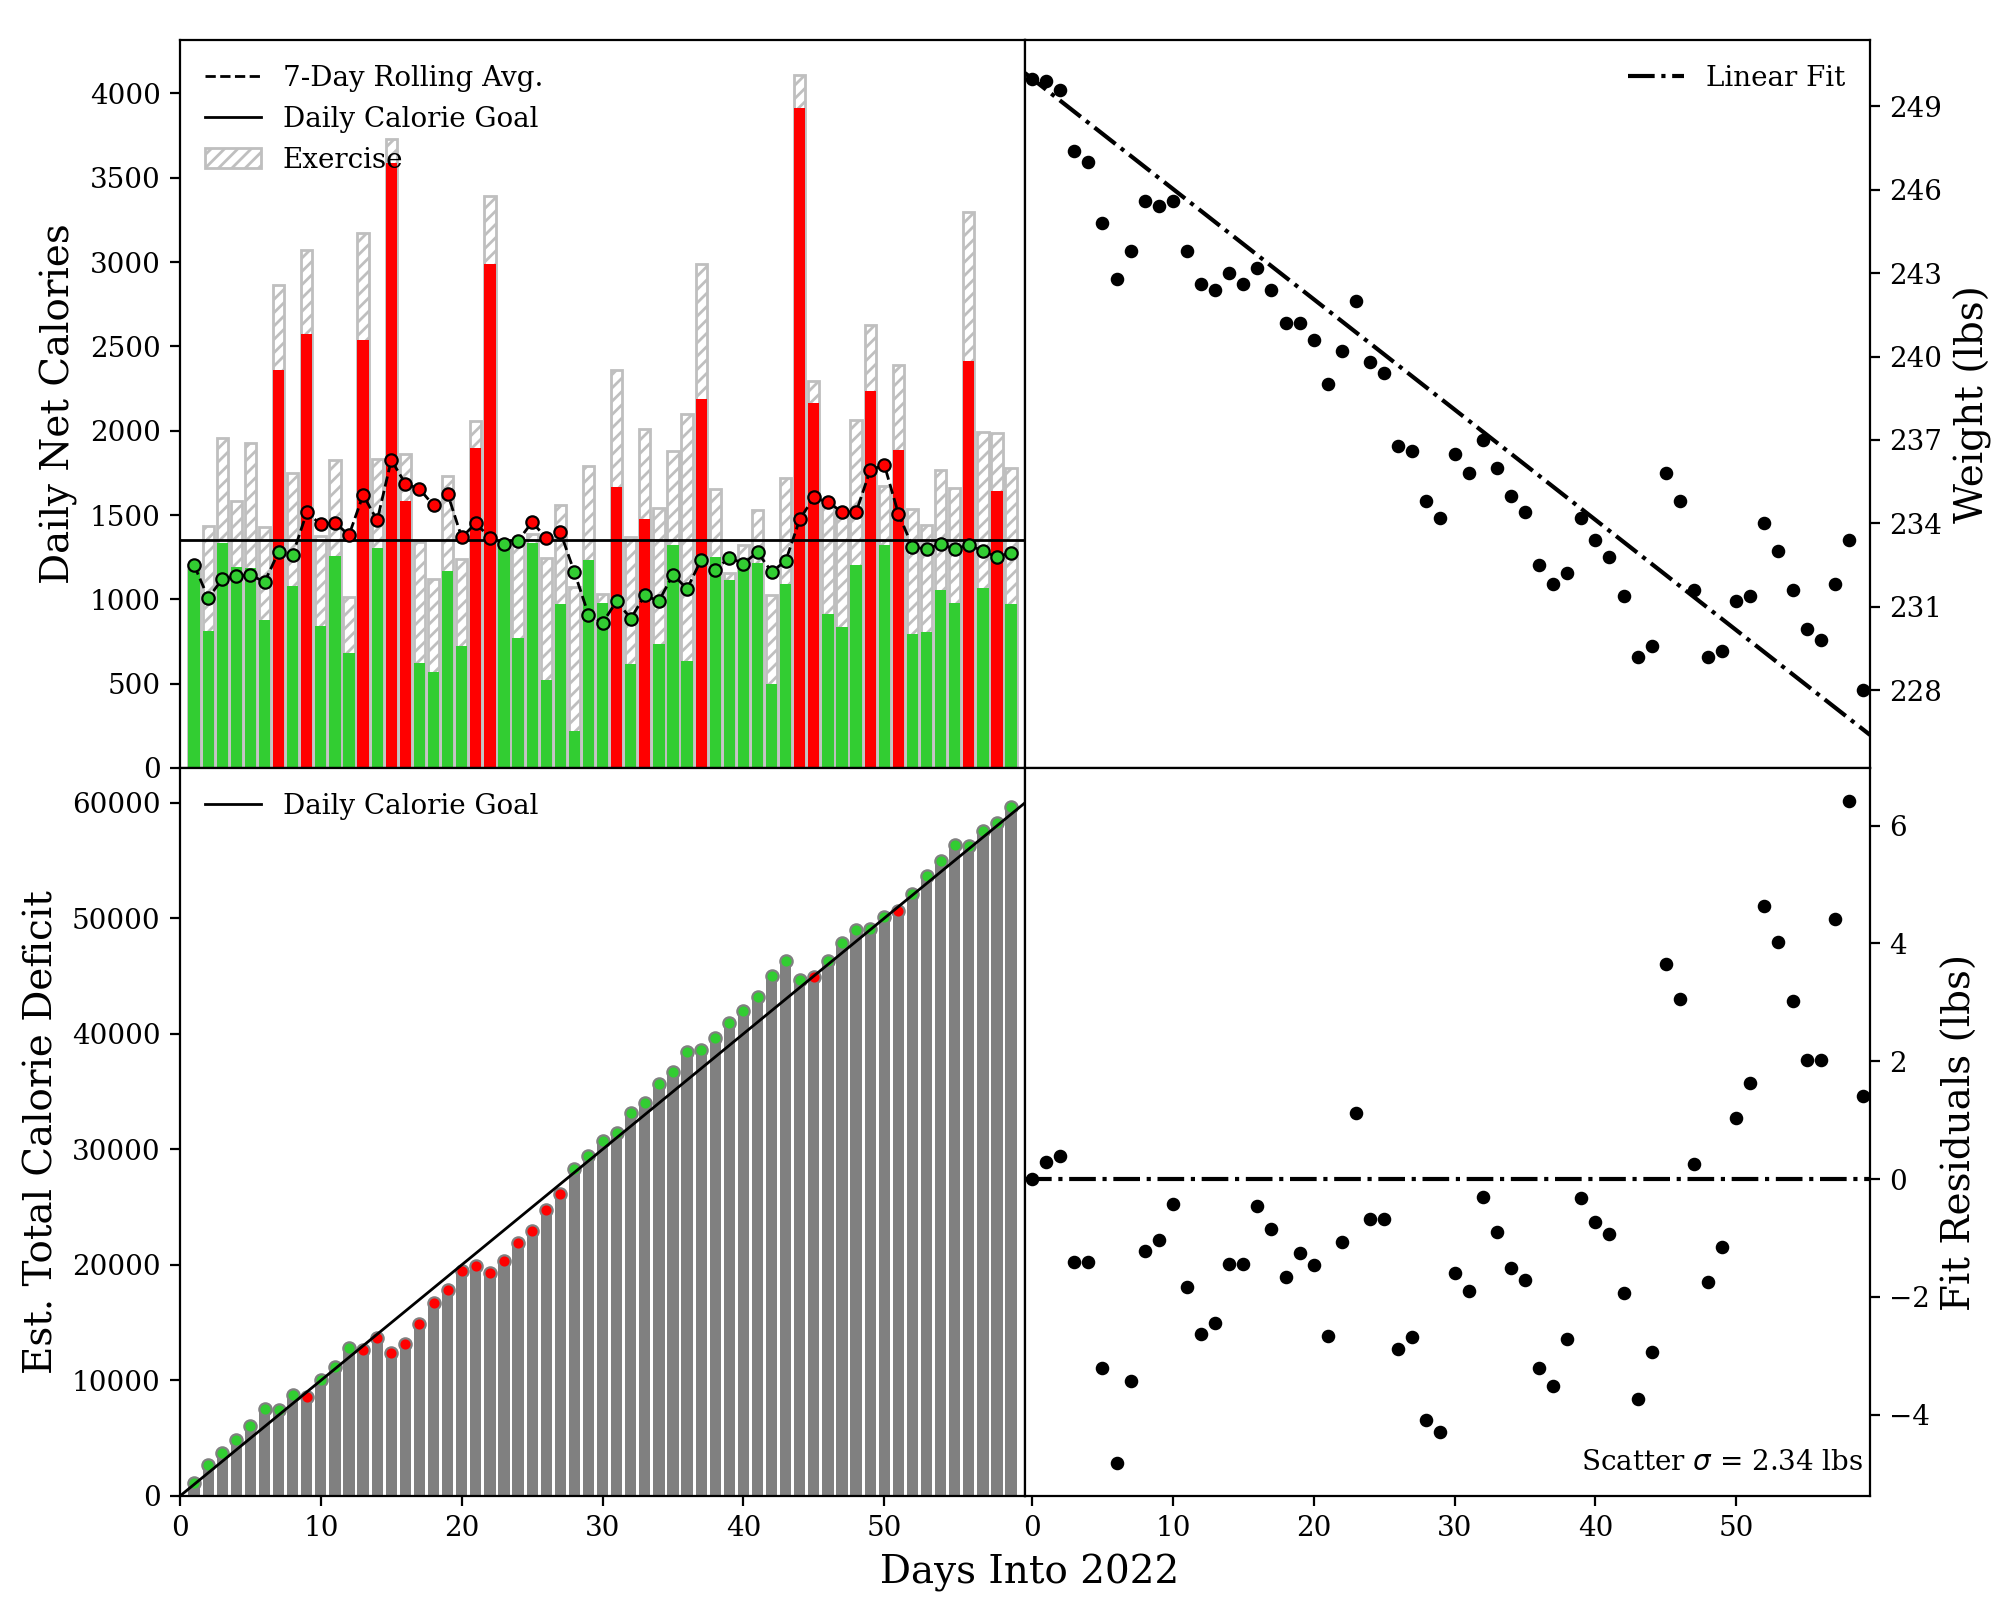
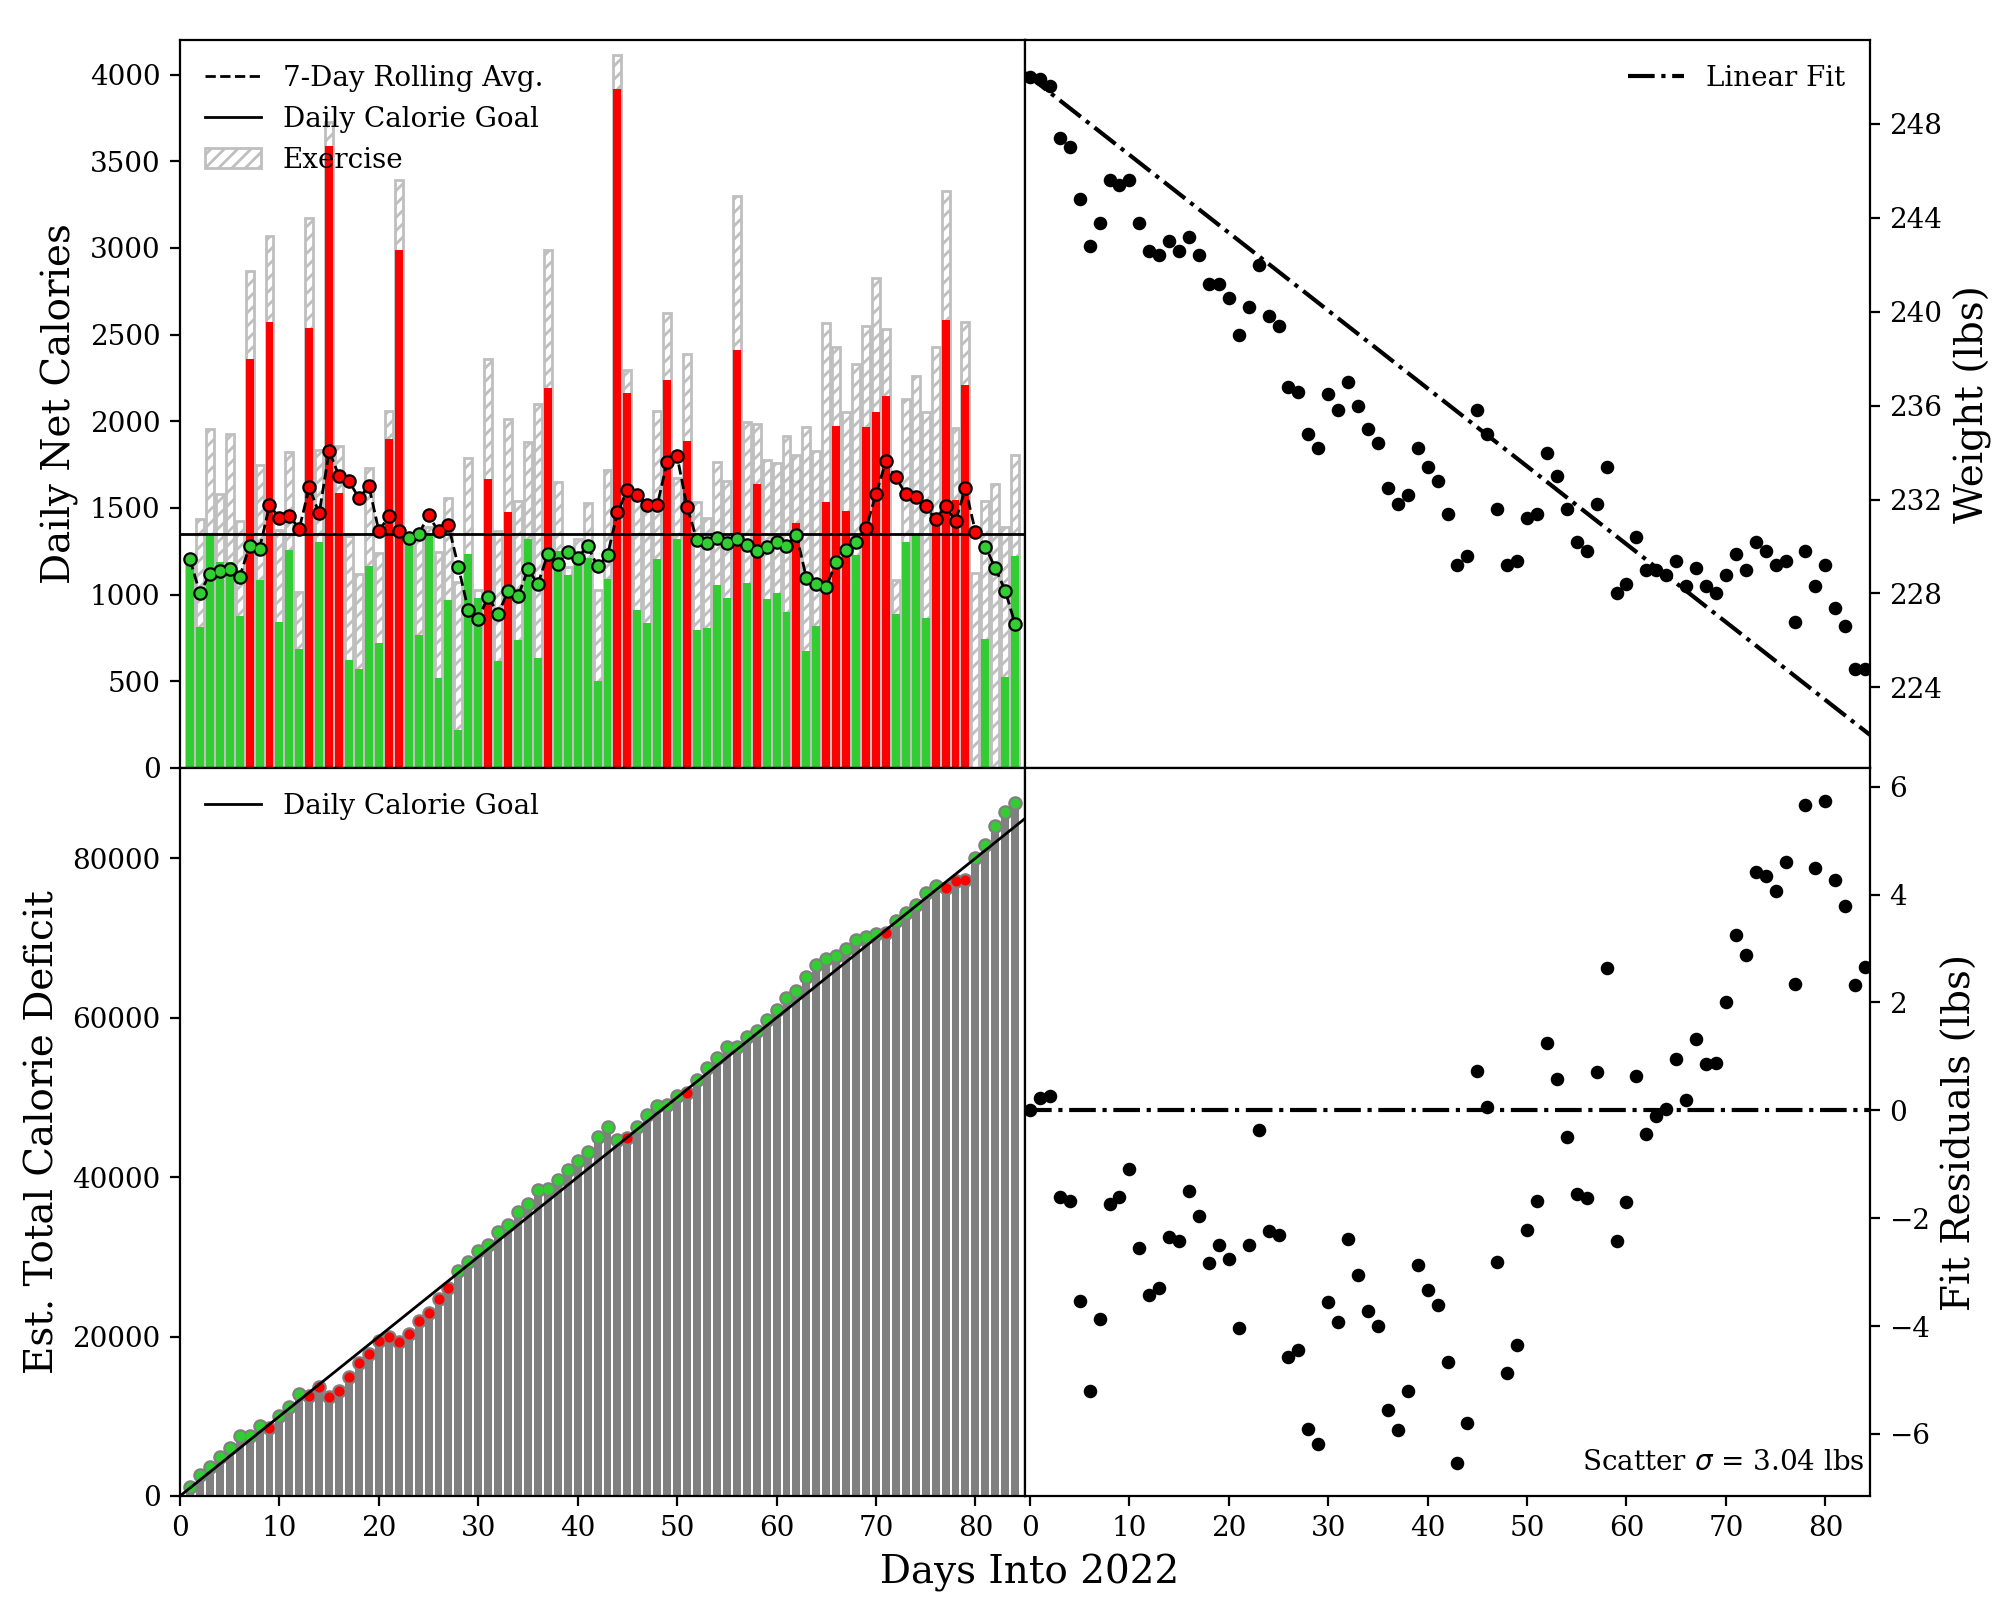
Add files via upload

diff --git a/Analyzer.py b/Analyzer.py
@@ -140,7 +140,7 @@ plt.axhline(GoalCals, linestyle='-', color='k', linewidth=1.0,label="Daily Calor
 plt.xticks([],fontsize=10)
 plt.yticks(fontsize=10)
 plt.ylabel("Daily Net Calories", fontsize=14)
-#plt.ylim(0,3750)
+plt.ylim(0,4200)
 plt.xlim(min(DateInts)-1,max(DateInts)+0.99)
 plt.legend(fontsize=10, loc='upper left', frameon=False)
 
